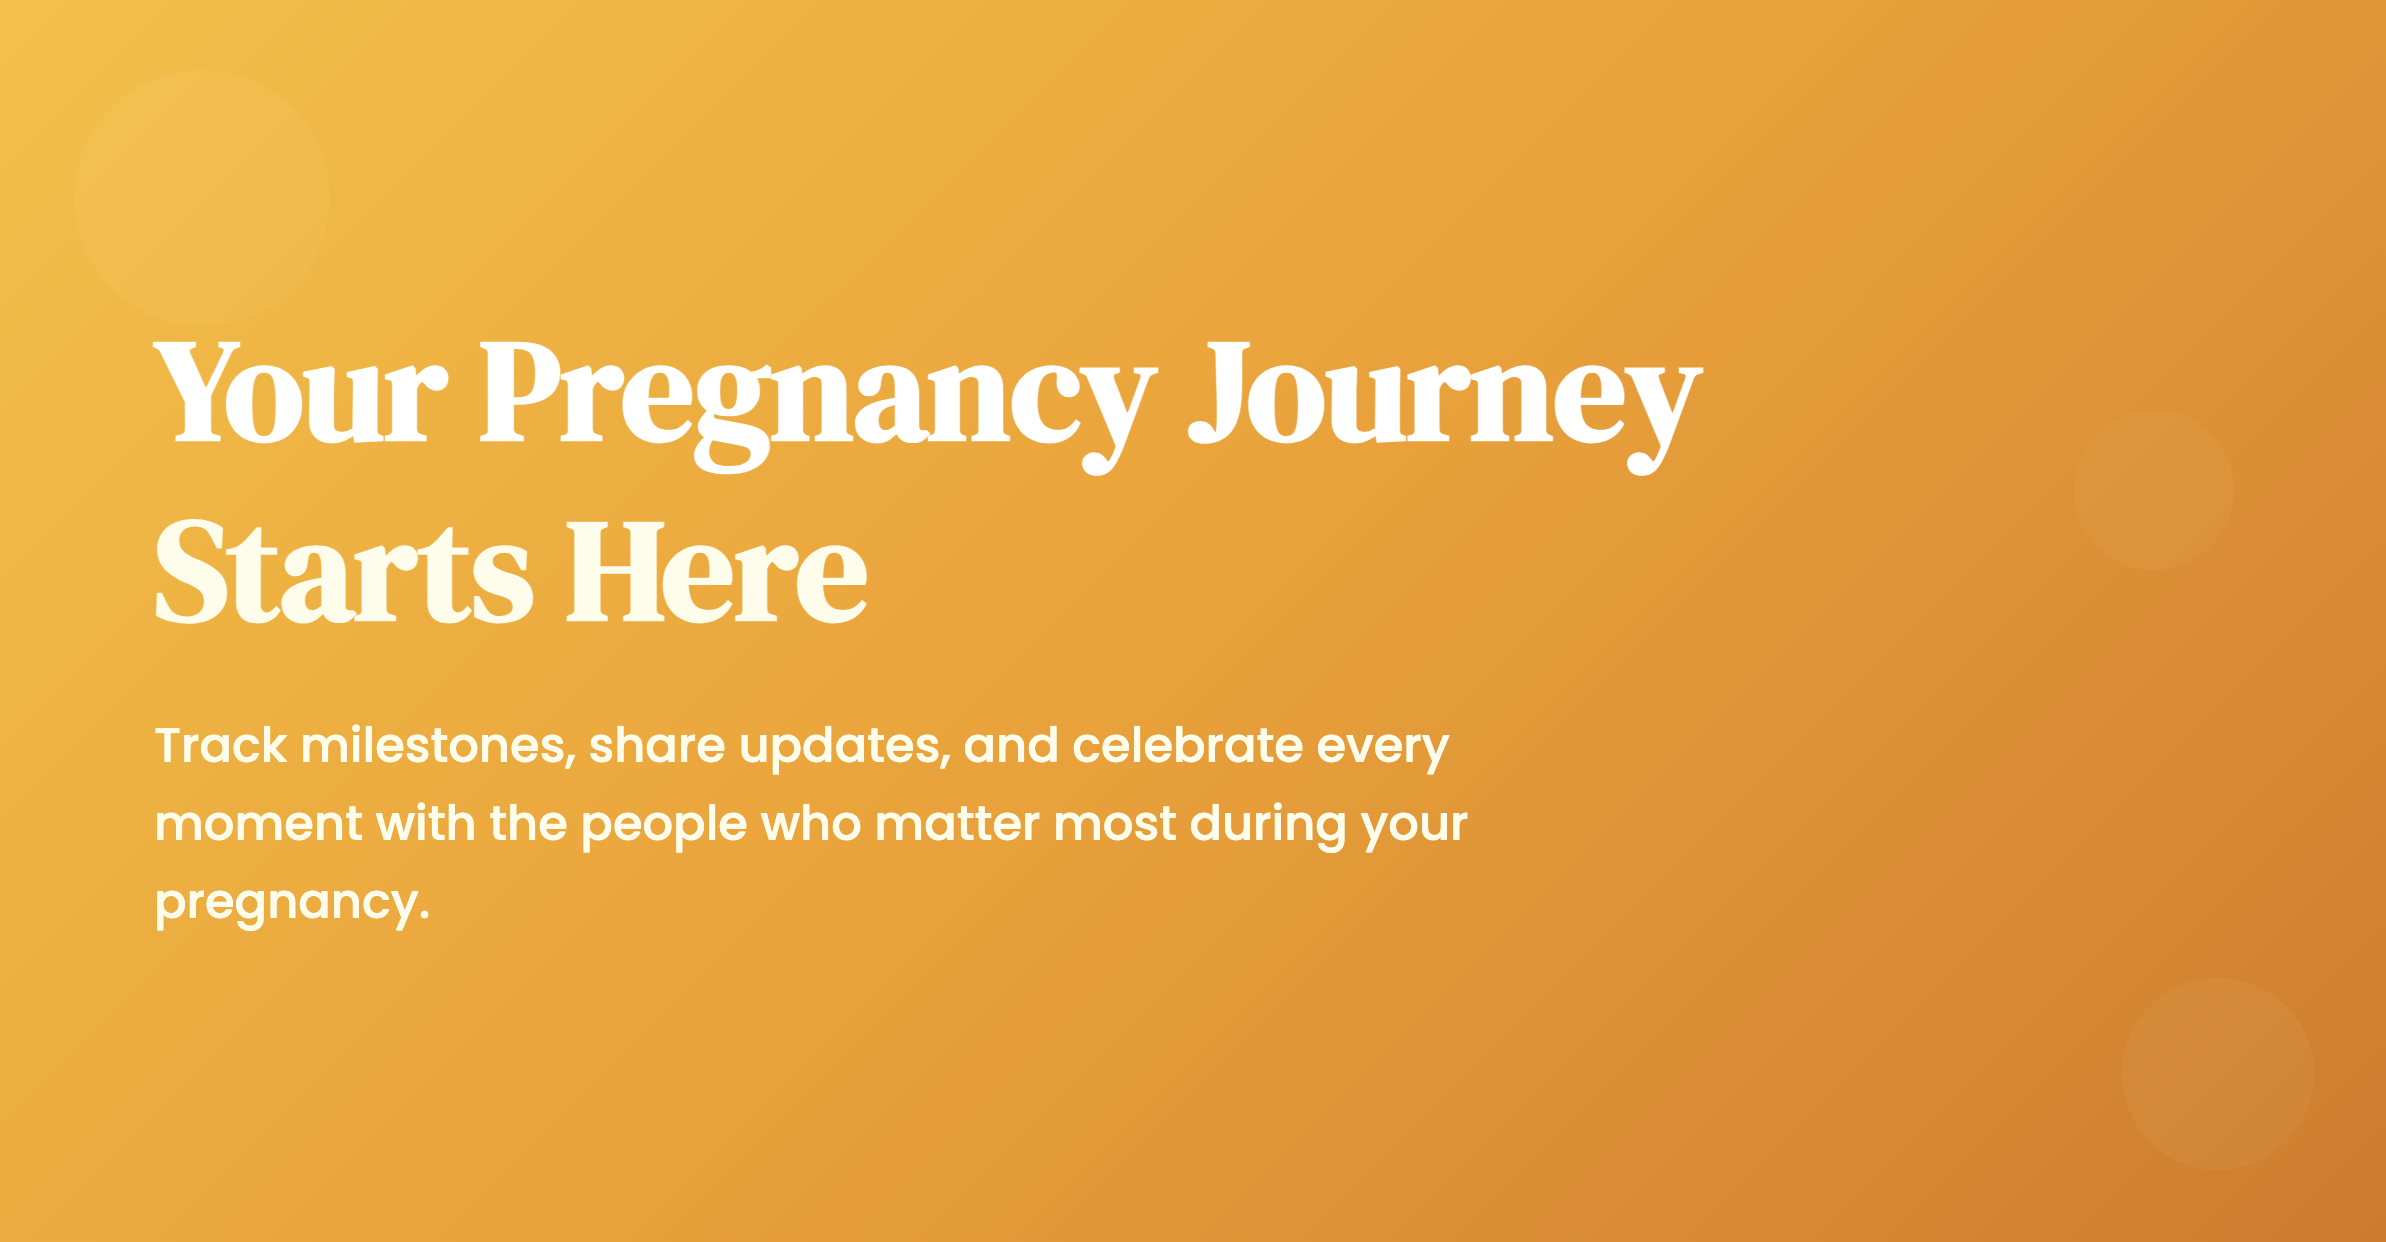
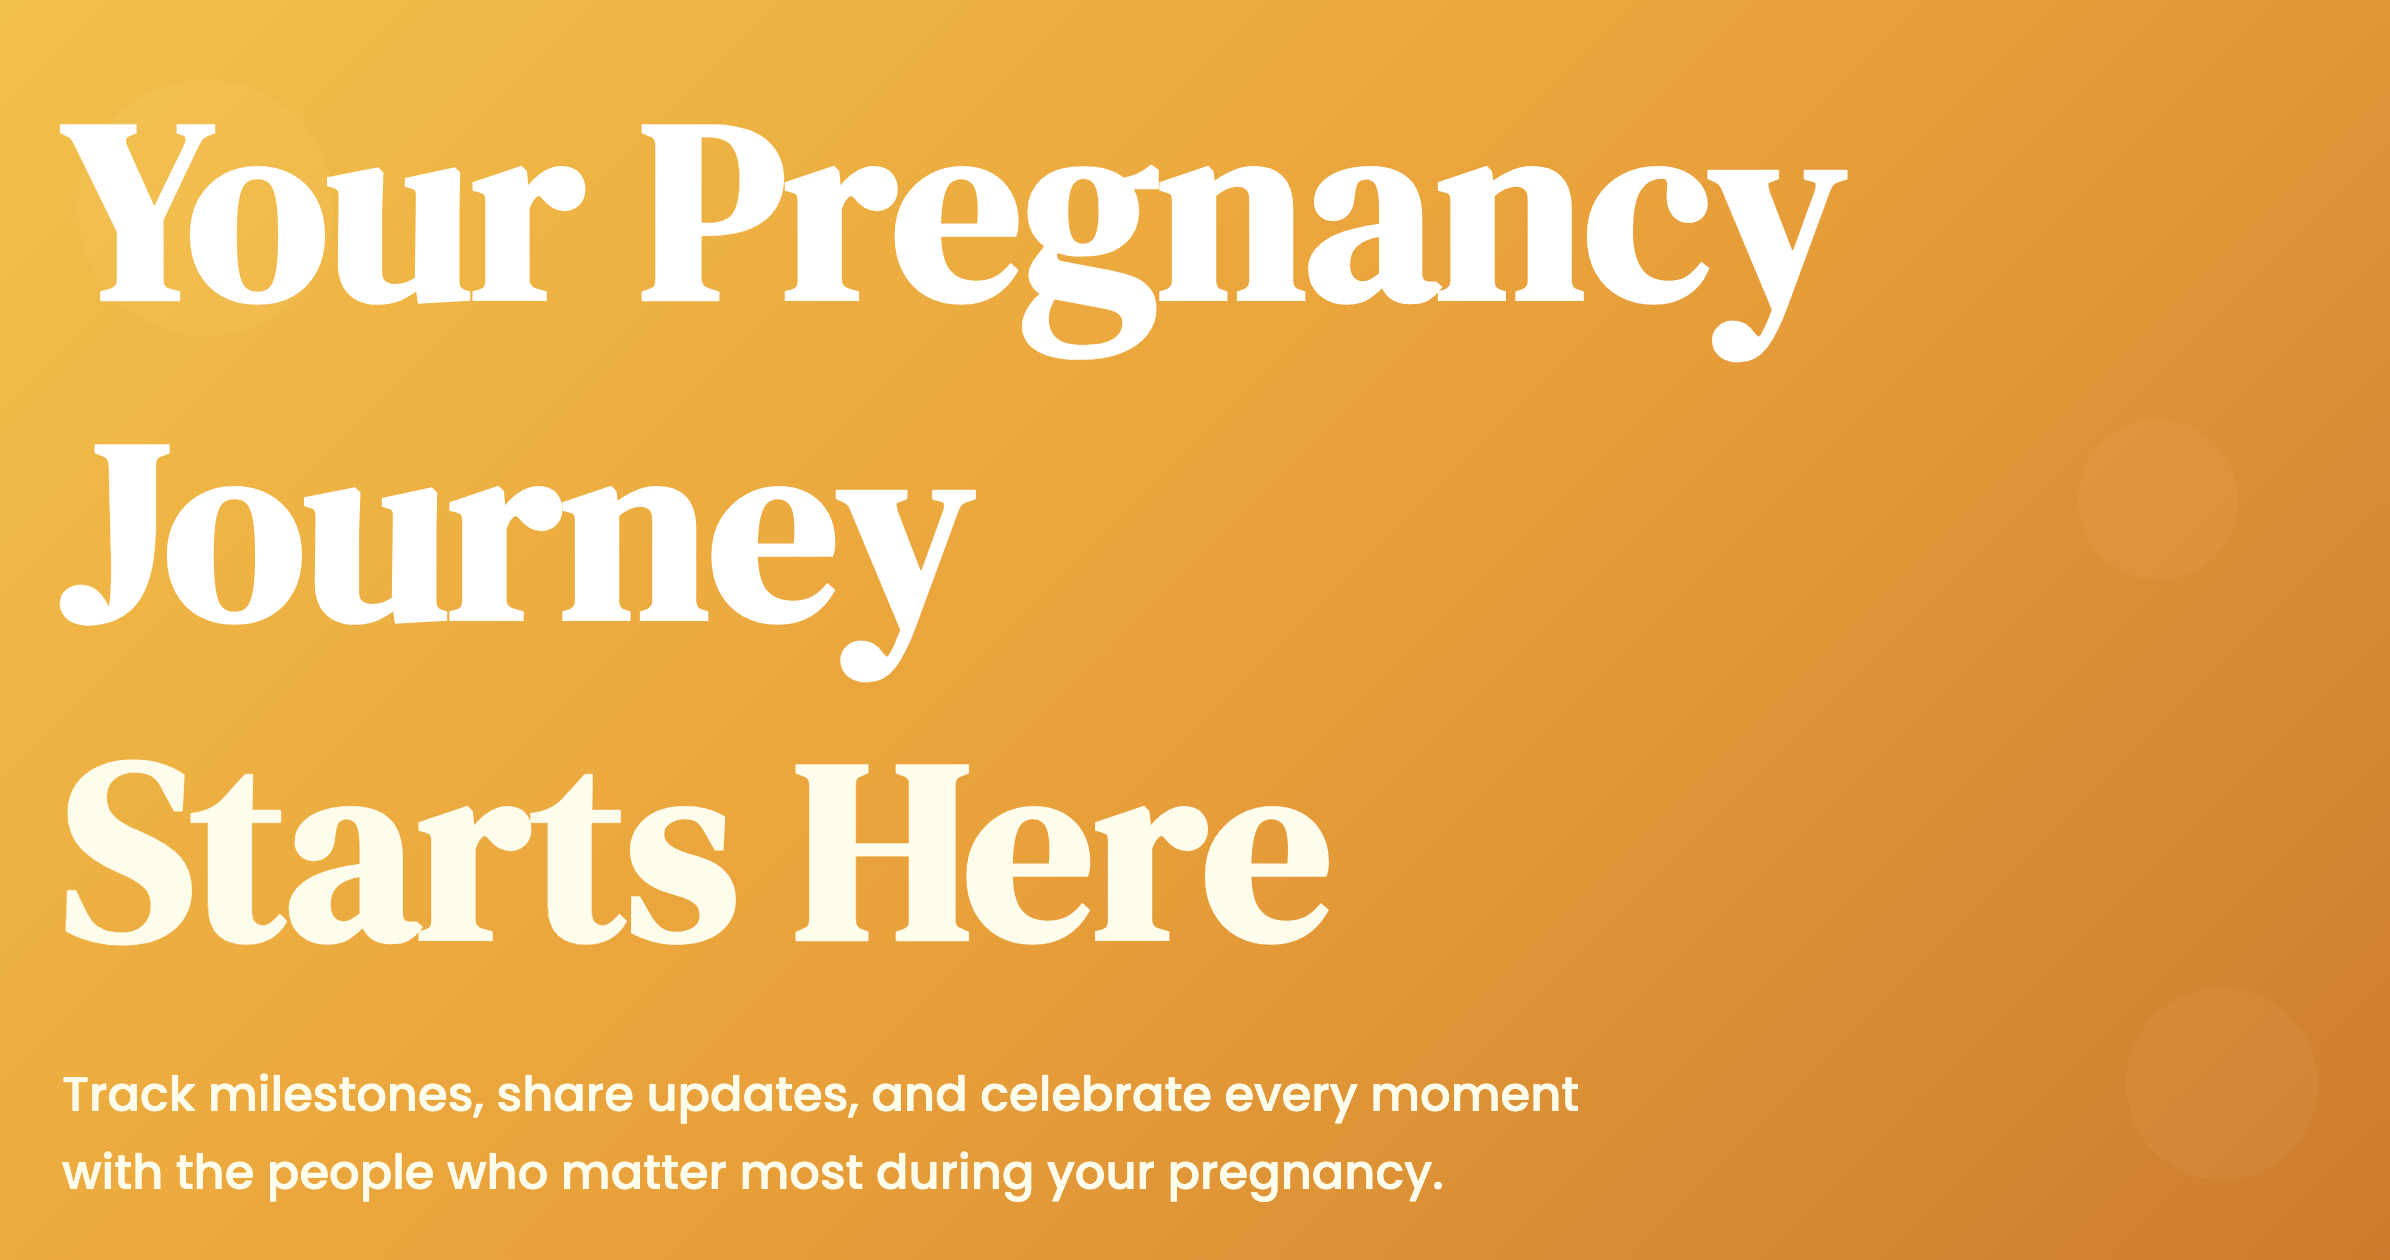
Update UI copy from village to journey theme
- Change register button from "Create Your Village" to "Start Your Journey"
- Change login button from "Sign In to Your Village" to "Continue Your Journey"
- Change login registration link from "Create your village" to "Start your journey"
- Update OG image generator with larger text and improved layout
- Update OG image accordingly

🤖 Generated with [Claude Code](https://claude.ai/code)

diff --git a/api/public/og-image-generator.html b/api/public/og-image-generator.html
@@ -26,13 +26,13 @@
     <p class="mb-4 text-gray-600">Right-click and save this image as "og-image.png" in the public folder</p>
     
     <div class="og-container hero-gradient flex items-center">
-        <div class="text-left px-20 py-16">
-            <h1 class="text-7xl font-bold text-white mb-6 font-serif leading-tight" style="font-family: 'DM Serif Display', serif;">
-                Your Pregnancy Journey<br/>
+        <div class="text-left px-8 py-8">
+            <h1 class="text-9xl font-bold text-white mb-6 font-serif leading-tight" style="font-family: 'DM Serif Display', serif;">
+                Your Pregnancy Journey 
                 <span class="text-yellow-50">Starts Here</span>
             </h1>
             
-            <p class="text-2xl text-yellow-50 font-medium leading-relaxed max-w-2xl">
+            <p class="text-3xl text-yellow-50 font-medium leading-relaxed max-w-3xl">
                 Track milestones, share updates, and celebrate every moment
                 with the people who matter most during your pregnancy.
             </p>

diff --git a/api/public/login.html b/api/public/login.html
@@ -170,7 +170,7 @@
 						type="submit"
 						class="btn-primary w-full px-4 py-3 rounded-lg text-lg font-semibold transition-colors focus:outline-none"
 					>
-						Sign In to Your Village
+						Continue Your Journey
 					</button>
 					
 					<div id="error" class="hidden">
@@ -183,7 +183,7 @@
 				<div class="mt-8 pt-6 border-t border-gray-200">
 					<p class="text-center text-sm text-gray-500">
 						Don't have an account? 
-						<a href="/register" class="font-medium text-primary-600 hover:text-primary-700">Create your village</a>
+						<a href="/register" class="font-medium text-primary-600 hover:text-primary-700">Start your journey</a>
 					</p>
 				</div>
 			</div>

diff --git a/api/public/register.html b/api/public/register.html
@@ -189,7 +189,7 @@
 						type="submit"
 						class="btn-primary w-full px-4 py-3 rounded-lg text-lg font-semibold transition-colors focus:outline-none"
 					>
-						Create Your Village
+						Start Your Journey
 					</button>
 					
 					<div id="message" class="hidden">
